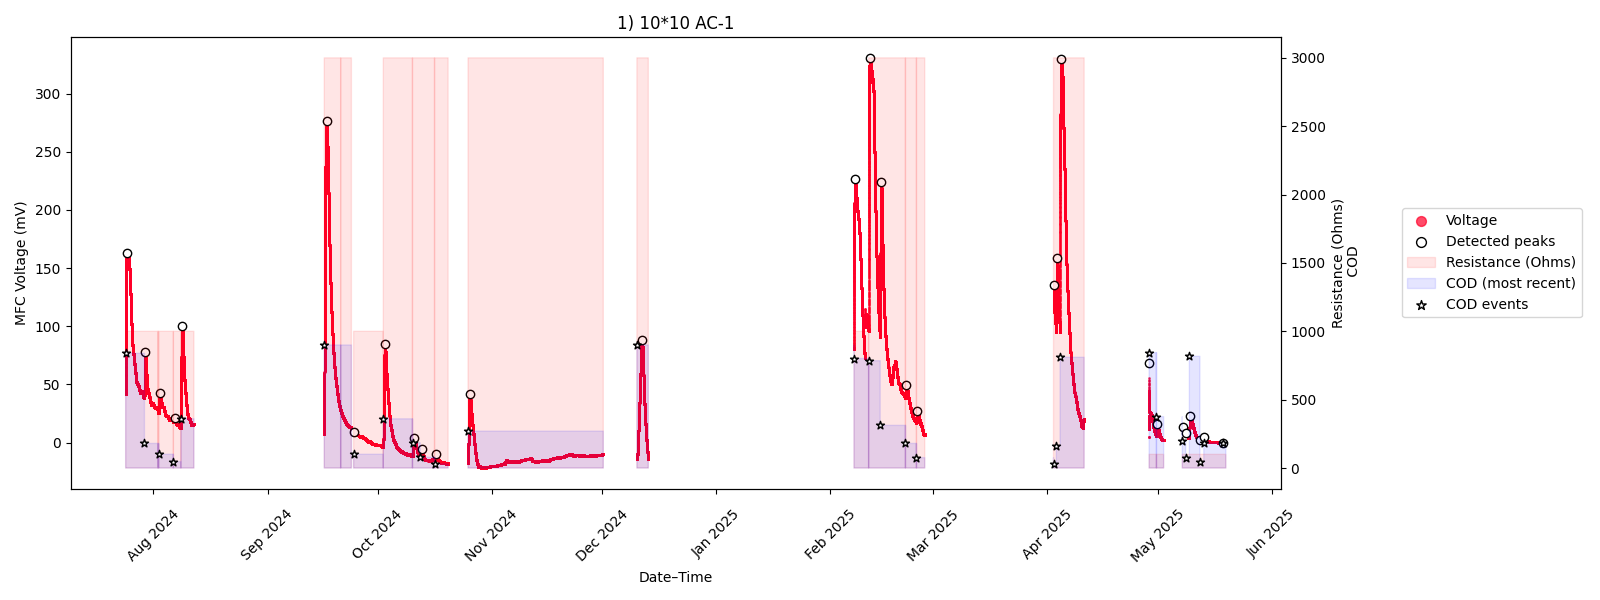
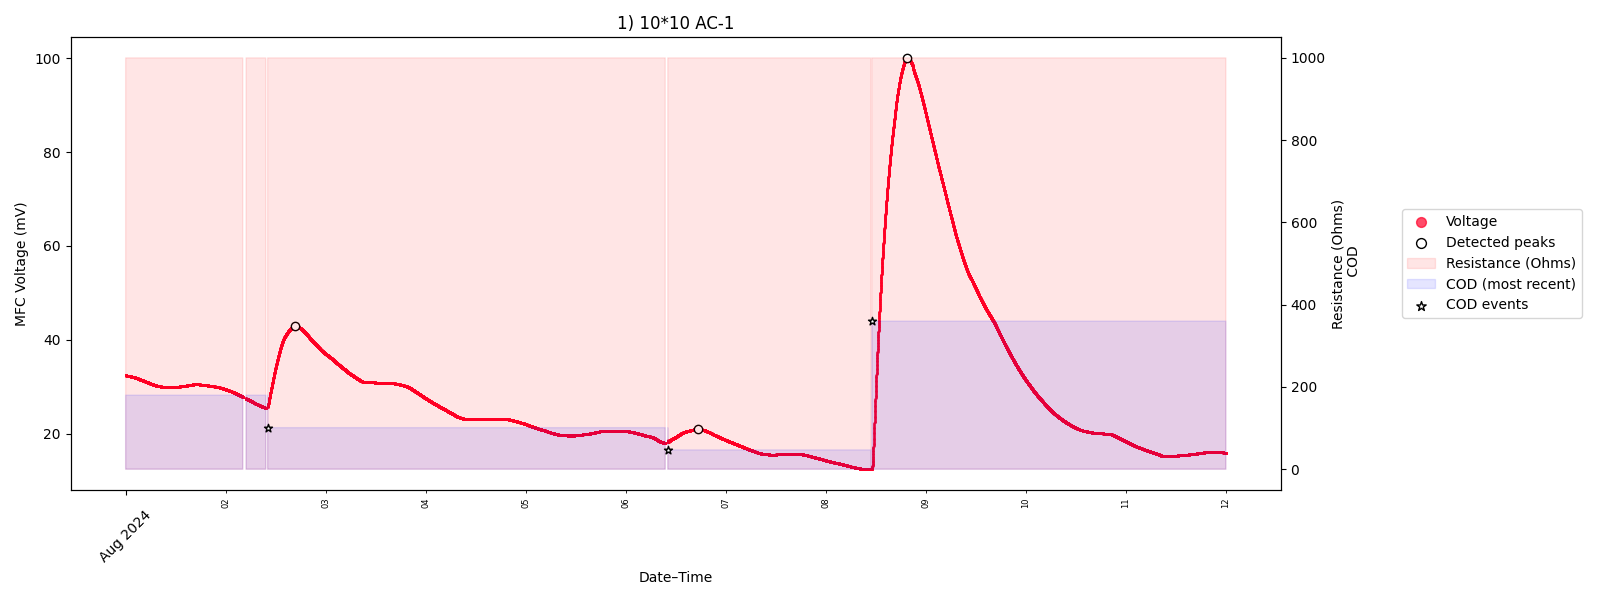
Voltage data prior to COD event removed from each file on import to avoid false peaks being detected. Section of data where resister value changed mid-way through recording also removed on import

diff --git a/read_excel_data_funcs.py b/read_excel_data_funcs.py
@@ -93,7 +93,6 @@ def import_excel_data(file_path):
 
         # Reformat date column
         df[date_col] = df[date_col].apply(reformat_as_year_first)
-
         try:
             df["datetime"] = pd.to_datetime(
                 df[date_col].astype(str) + " " + df[time_col].astype(str)
@@ -101,6 +100,20 @@ def import_excel_data(file_path):
         except:
             print('problem:', sheet, df[date_col].astype(str) + " " + df[time_col].astype(str))
 
+        
+        # Raplace voltage values before the COD spike with NaN in each sheet  
+        voltage_cols = extract_mfc_column_names(df)
+        cod_cols = [col for col in df.columns if col.startswith("COD")]
+
+        # For each MFC
+        for v_col, cod_col in zip(voltage_cols, cod_cols):
+
+                    # Find COD event 
+                    cod_idx = df[cod_col].first_valid_index()
+
+                    # Replace voltage values recorded ahead of the COD event with NaN
+                    if cod_idx is not None:
+                        df.loc[:cod_idx, v_col] = np.nan
 
         # Drop data containing spike with unknown COD value
         if sheet == "30sec x20_3K 2":
@@ -112,6 +125,11 @@ def import_excel_data(file_path):
             cutoff = pd.to_datetime("12/08/2024", dayfirst=True)
             df = df[df["datetime"] < cutoff]
 
+        # Drop data containing spike due to change in resistor value during recording
+        if sheet == "biosensor-anode (30sec) rec15":
+            cutoff = pd.to_datetime("10/02/2025 09:56:54", dayfirst=True)
+            df = df[df["datetime"] < cutoff]
+
         # Drop the original separate date & time columns
         df = df.drop(columns=[date_col, time_col])
 
@@ -121,14 +139,12 @@ def import_excel_data(file_path):
     # Example showing what's loaded:
     for s in data:
         print(f"\nSheet: {s}")
-        print(data[s].head())
+        print(data[s].head(30))
 
     return data
 
 
-def plot_data(all_data, cols_to_plot, title=None, voltage_peaks=False, show_plot=True):
-
-    cols_to_plot = extract_mfc_column_names(all_data)
+def plot_data(all_data, cols_to_plot, title=None, voltage_peaks=False, show_days=False, show_plot=True):
 
     n_mfcs = len(cols_to_plot)
 
@@ -152,11 +168,13 @@ def plot_data(all_data, cols_to_plot, title=None, voltage_peaks=False, show_plot
         )
 
         if isinstance(voltage_peaks, list):
+
+            # Remove None values before plotting 
+            voltage_peaks = [v for v in voltage_peaks if v!=None]
  
             # Overlay peaks as points
-            plt.scatter(all_data["datetime"].iloc[voltage_peaks],
-                        all_data[col].iloc[voltage_peaks],
-                        # all_data[col].iloc[selected_indices],
+            plt.scatter(all_data["datetime"].loc[voltage_peaks],
+                        all_data[col].loc[voltage_peaks],
                         color="black",
                         marker="o",
                         label="Detected peaks",
@@ -171,10 +189,11 @@ def plot_data(all_data, cols_to_plot, title=None, voltage_peaks=False, show_plot
     ax1.xaxis.set_major_locator(mdates.MonthLocator())
     ax1.xaxis.set_major_formatter(mdates.DateFormatter('%b %Y'))
 
-    # # Minor ticks: every day
-    # ax1.xaxis.set_minor_locator(mdates.DayLocator(interval=1))
-    # ax1.xaxis.set_minor_formatter(mdates.DateFormatter('%d'))  # day number
-    # ax1.tick_params(axis='x', which='minor', labelsize=6, labelrotation=90)
+    if show_days:
+        # Minor ticks: every day
+        ax1.xaxis.set_minor_locator(mdates.DayLocator(interval=1))
+        ax1.xaxis.set_minor_formatter(mdates.DateFormatter('%d'))  # day number
+        ax1.tick_params(axis='x', which='minor', labelsize=6, labelrotation=90)
 
     # Adjust spacing for readability
     ax1.tick_params(axis='x', which='major', pad=10, rotation=45)
@@ -284,7 +303,9 @@ def extract_mfc_column_names(all_data):
         column_names = [col for col in all_data.columns if not col.startswith(('COD', 
                                                                        'Resistance', 
                                                                        'TYE', 
-                                                                       'datetime')
+                                                                       'datetime',
+                                                                       'Date',
+                                                                       'Time')
                                                                      )]
         return column_names
 

diff --git a/analyse_data.py b/analyse_data.py
@@ -10,7 +10,7 @@ def main():
     all_data = all_data.set_index("datetime", drop=False).sort_index()
 
     # Select date range to work on 
-    all_data = all_data.loc["2024-10-01":"2024-10-30 23:59:59"]
+    all_data = all_data.loc["2024-08-01":"2024-08-28 23:59:59"]
 
     # Get names of columns containing MFC voltage data
     mfc_column_names = extract_mfc_column_names(all_data)
@@ -27,7 +27,6 @@ def main():
     }
 
     for d in all_data_separate:
-
         print()
         print(d)
         data = all_data_separate[d]
@@ -35,54 +34,44 @@ def main():
         # Compute power output as time series
         data['Power W'] = data["Voltage"] * data["Resistance"]**2
 
-        # Get index of COD events
-        cod_events_idx = data.index[data["COD_event"] == 1].to_numpy()
-        # print('number of cod events ', len(cod_events_idx))
+        # Get date-time index of COD events
+        cod_events_idx = data.index[data["COD_event"] == 1]
 
-        # # Get time of COD events
-        # cod_events_time = data["datetime"].iloc[cod_events_idx]
-        # print('COD event times \n', cod_events_time)
+        # Get index of voltage peaks
+        voltage_peaks_idx = []
 
-        # # Get index of voltage peaks
-        # voltage_peaks_idx = []
+        # Get window of voltage data following each COD event
+        for i in range(len(cod_events_idx)):
+            start = cod_events_idx[i] 
 
-        # # Get window of voltage data following each COD event
-        # for i in range(len(cod_events_idx)):
-        #     start = cod_events_idx[i] 
+            if i < len(cod_events_idx) - 1:
+                end = cod_events_idx[i+1]
+                # window = data['Voltage'].loc[start:end].iloc[:-1]
+                # window = data['Voltage'].iloc[start:end]
+                window = data.loc[(data.index >= start) & (data.index < end), 'Voltage']
 
-        #     if i < len(cod_events_idx) - 1:
-        #         end = cod_events_idx[i+1]
-        #         window = data['Voltage'].iloc[start:end]
+            # Last segment of data has no stopping value
+            else:
+                window = data['Voltage'].loc[start:]
 
-        #     # Last segment of data
-        #     else:
-        #         window = data['Voltage'].iloc[start:]
+            if len(window) > 0:
+                # Find maximum voltage recorded in this window (voltage peak)
+                if window.notna().any():
+                    peak_idx = window.idxmax()
+                    print('Voltage peak:', peak_idx, data['Voltage'].loc[peak_idx])
+                else:
+                    peak_idx = None
+                    print('Voltage peak:', peak_idx)
 
-        #     if len(window) > 0:
+                # Store index of voltage peak
+                voltage_peaks_idx.append(peak_idx)
 
-        #         # Find maximum voltage recorded in this window (voltage peak)
-        #         local_max_pos = np.nanargmax(window.values)
-
-        #         # Convert to global index
-        #         max_idx = start + local_max_pos
-
-        #         # Store index of voltage peak
-        #         voltage_peaks_idx.append(max_idx)
-
-        # # print('number of voltage peaks ', len(voltage_peaks_idx))
-
-        # # Get time of voltage peaks
-        # peak_times = data["datetime"].iloc[voltage_peaks_idx]
-        # print('Voltage peak times \n',peak_times)
-
-        # # print('Voltage peak values \n',peak_times)
-        # # print(data["Voltage"].iloc[voltage_peaks_idx])
-
-        # # Plot voltage data for each MFC, showing peaks
-        # plot_data(data, 
-        #           ["Voltage"], 
-        #           title=d, 
-        #           voltage_peaks=voltage_peaks_idx)
+        # Plot voltage data for each MFC, showing peaks
+        plot_data(data, 
+                  ["Voltage"], 
+                  title=d, 
+                  voltage_peaks=voltage_peaks_idx,
+                  show_days=True)
 
         # # Compute and store delay between COD event and voltage spike 
         # spike_delay_days = [(t2 - t1).total_seconds() / (60 * 60 * 24) for t1, t2 in zip(cod_events_time, peak_times)]

diff --git a/read_excel_data.py b/read_excel_data.py
@@ -21,7 +21,6 @@ def main():
     # Sort by date time
     all_data = all_data.sort_values("datetime").reset_index(drop=True)
 
-
     # Get names of columns containing MFC voltage data 
     mfc_column_names = extract_mfc_column_names(all_data)
 
